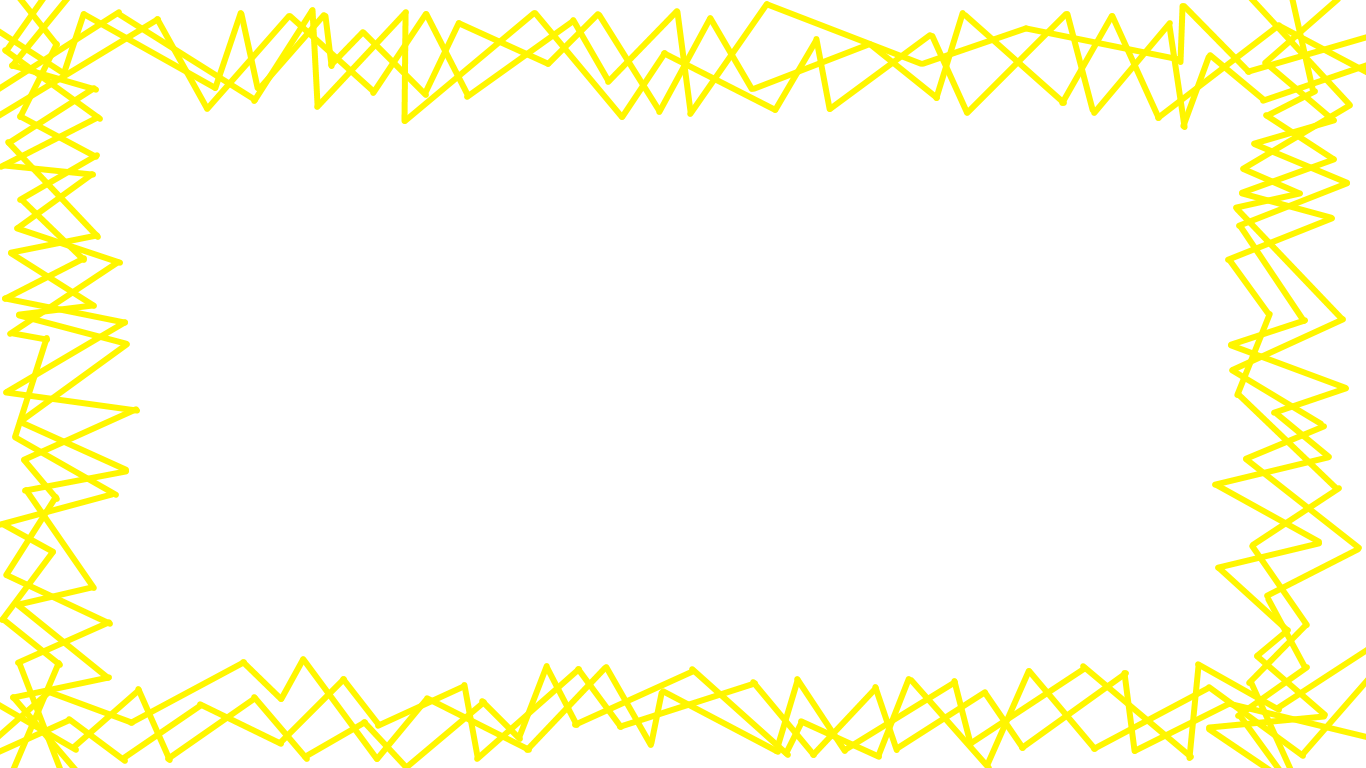
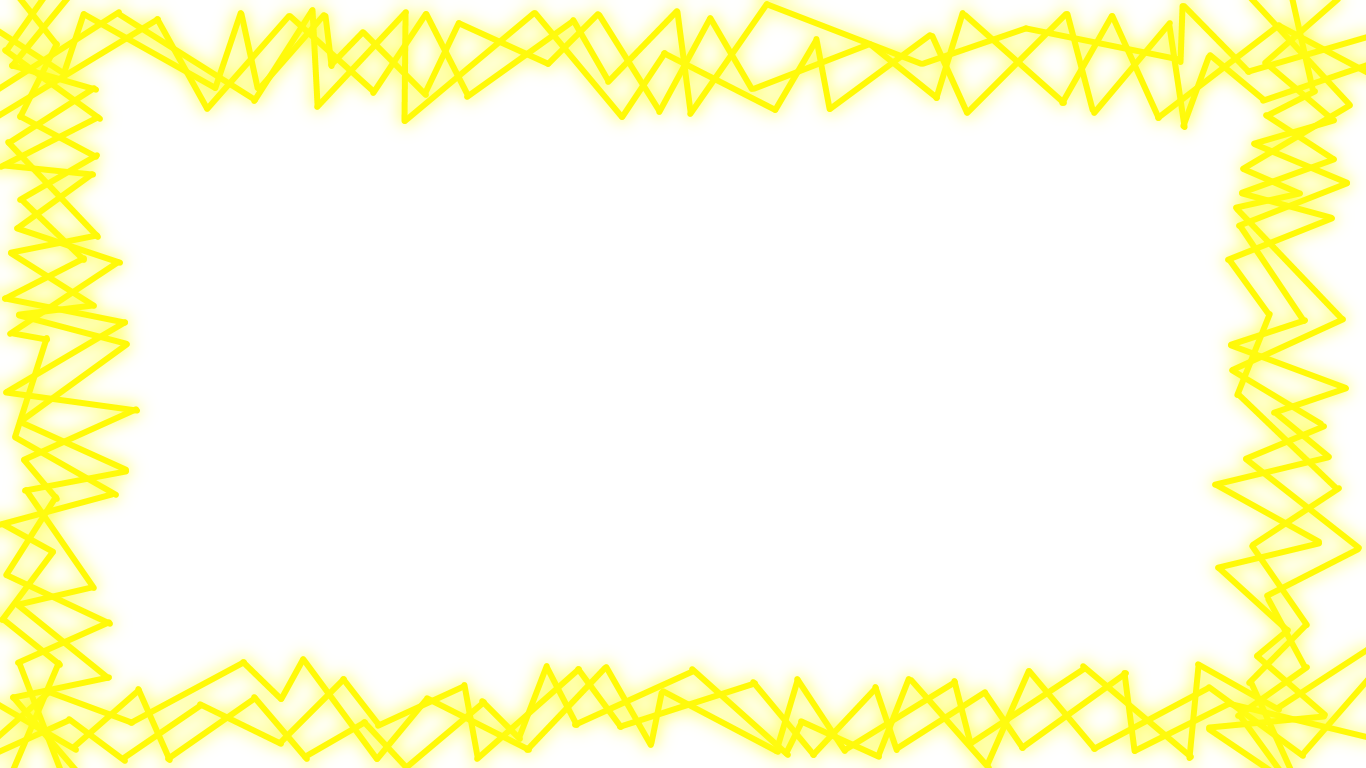
tidied up the damageFlash images, and added glow to the electric one

Changed region(s): [[0.0, 0.0, 1.0, 1.0]]

diff --git a/assets/levels/TheConstruct/TheConstruct.ts b/assets/levels/TheConstruct/TheConstruct.ts
@@ -41,13 +41,13 @@ export default class TheConstruct extends ASLevel
         
         // models.push(new Falcon(models[0]));
         // models.push(new Ghost(this.player));
-		models.push(new LavaBall(this.player));
-        models.push(new LavaBall(this.player));
-		models.push(new BabyDragon(this.player, models[models.length - 1] as LavaBall, models[models.length - 2] as LavaBall));
+		// models.push(new LavaBall(this.player));
+        // models.push(new LavaBall(this.player));
+		// models.push(new BabyDragon(this.player, models[models.length - 1] as LavaBall, models[models.length - 2] as LavaBall));
         // models.push(new Lightning());
         // models.push(new Lightning());
         // models.push(new ElectricSeahorse(this.player, models[models.length - 2] as Lightning, models[models.length - 1] as Lightning));
-        // models.push(new ElectricHornet(this.player));
+        models.push(new ElectricHornet(this.player));
 		this.monsters = [
             models[models.length - 1] as Monster,
             // models[models.length - 2] as Monster
